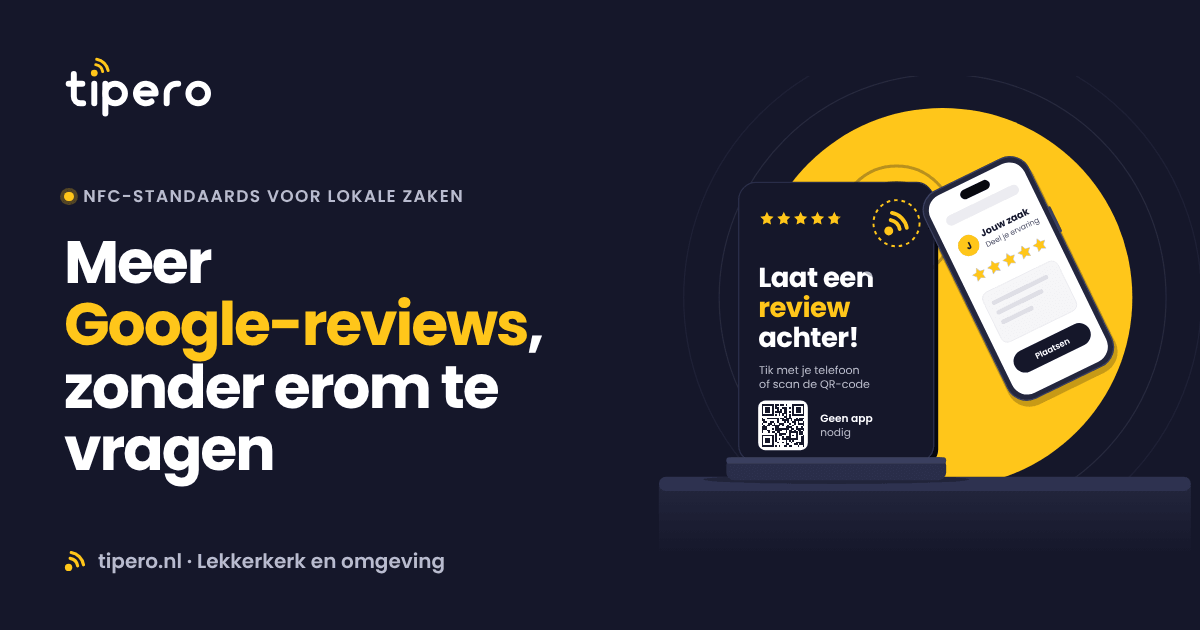
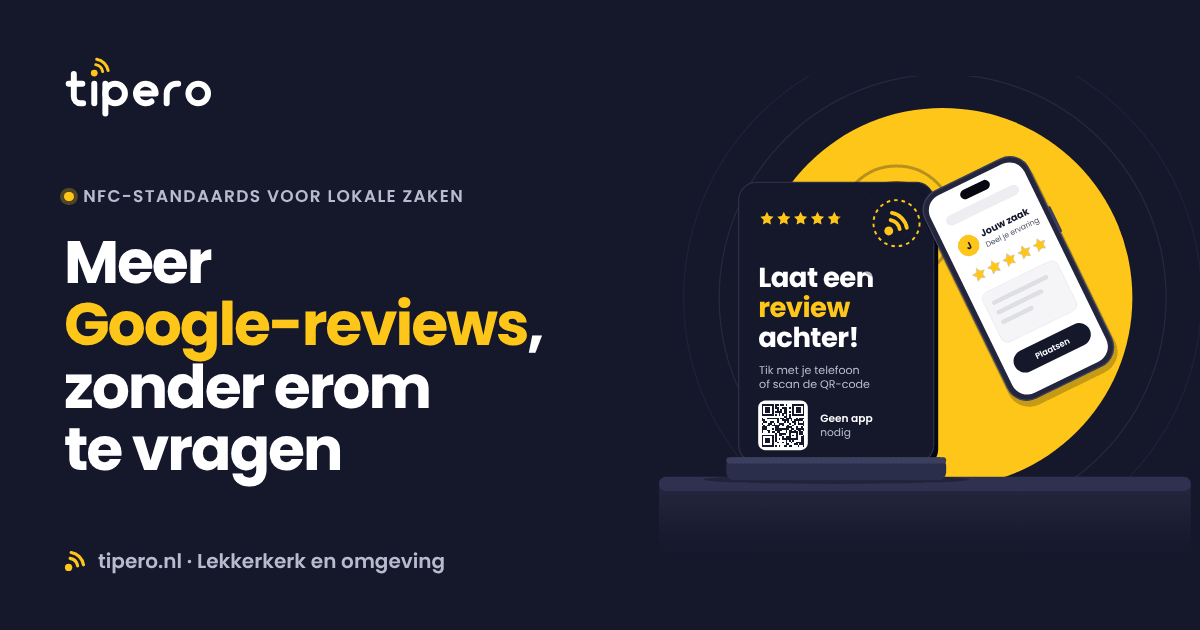
Testen en verfijnen: FAQ-ankers klappen open, portret eager, kop-afbreking, .nvmrc
Claude-Session: https://claude.ai/code/session_01VJVxFeXi97cMuVJhUFCArz

Changed region(s): [[0.0617, 0.6635, 0.3083, 0.7841], [0.37, 0.573, 0.4317, 0.6635]]

diff --git a/tipero/src/data/home.ts b/tipero/src/data/home.ts
@@ -9,7 +9,7 @@ export const home = {
   hero: {
     eyebrow: 'NFC-standaards voor lokale zaken',
     /** De H1. Het deel in `accent` wordt geel. */
-    titel: 'Meer Google-reviews, zonder erom te vragen',
+    titel: 'Meer Google-reviews, zonder erom te\u00A0vragen',
     accent: 'Google-reviews',
     intro:
       'Een NFC-standaard op je toonbank. Je klant tikt met de telefoon en staat meteen op jouw Google-reviewpagina. Geen app nodig. Ik kom langs, stel alles in en test het ter plekke.',
